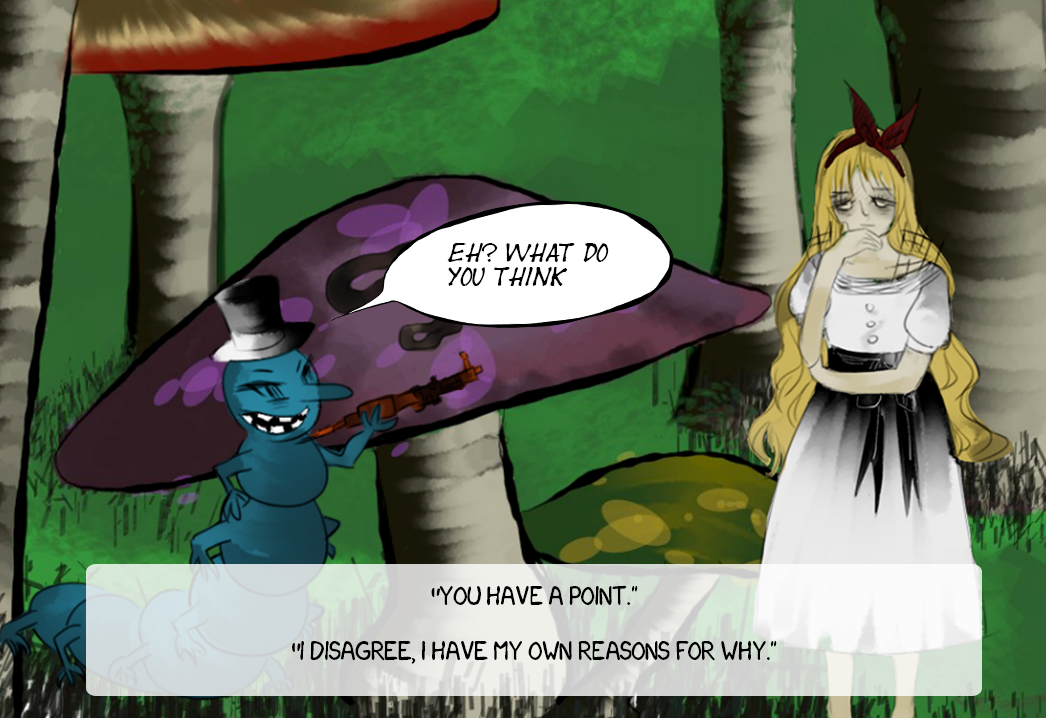
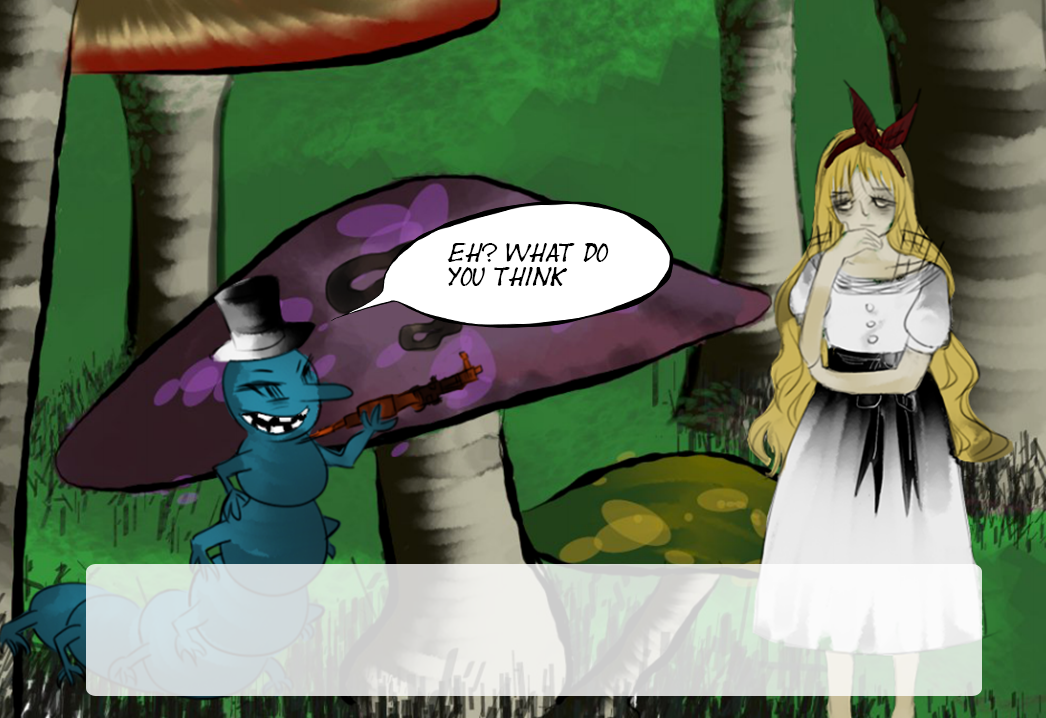
finish pre-hub

Changed region(s): [[0.2753, 0.8886, 0.7342, 0.9192], [0.3977, 0.7967, 0.6119, 0.8579]]

diff --git a/hub.html b/hub.html
@@ -13,19 +13,7 @@
 <body>
 	<div id="container" style="text-align:center">
 		<h1 class="title">- Alice In Wonderland -</h1>
-		<img src="images/18.png" style="width:70%">
-		<div id="responses">
-			<p class="response-1">"YOU HAVE A POINT."</p>
-			<p class="response-2">"I DISAGREE, I HAVE MY OWN REASONS FOR WHY."</p>
-		</div>
+		<img src="images/hub.jpg" style="width:70%">
 	</div>
 </body>
-<script type="text/javascript">
-	$(".response-1").click(function() {
-		chooseOption(0, "hub");
-	});
-	$(".response-2").click(function() {
-		chooseOption(0, "hub");
-	});
-</script>
 </html>

diff --git a/alice_17.html b/alice_17.html
@@ -13,7 +13,10 @@
 <body>
 	<div id="container" style="text-align:center">
 		<h1 class="title">- Alice In Wonderland -</h1>
-		<a href="alice_18.html"><img src="images/17.png" style="width:70%"></a>
+		<a href="alice_18.html">
+			<div id="long-container-17">
+			</div>
+		</a>
 	</div>
 </body>
 </html>

diff --git a/css/style.css b/css/style.css
@@ -65,3 +65,12 @@
 	height: 88%;
 }
 
+#long-container-17 {
+	background-image: url("../images/17.png");
+	background-position: left;
+	background-size: 200% 100%;
+	width: 70%;
+	margin-left: 15%;
+	height: 88%;
+}
+
